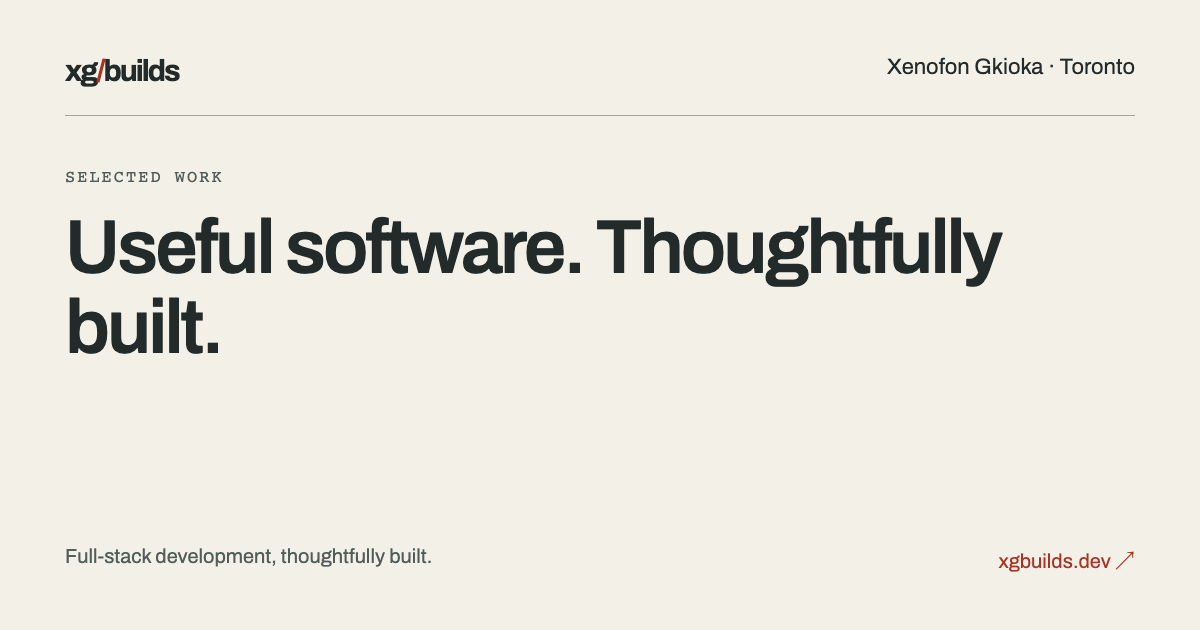
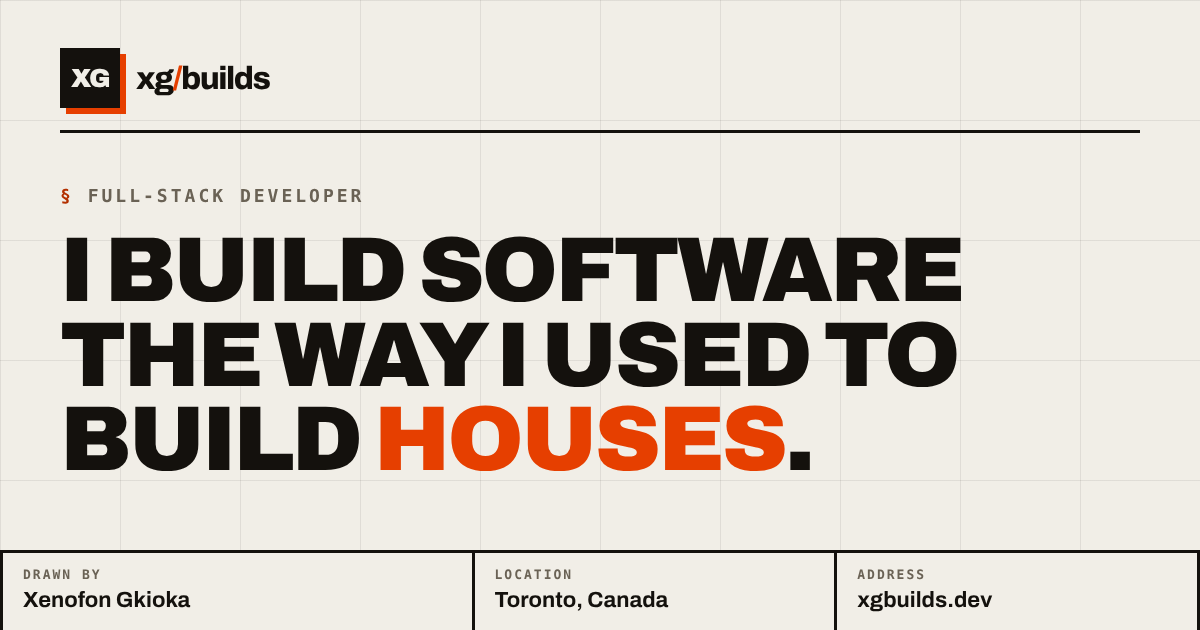
Add sitemap, robots.txt and drafting-style social cards
- app/sitemap.ts and app/robots.ts export sitemap.xml and robots.txt.
- Page metadata gains locale and descriptive image alt text.
- Social cards redrawn in the drafting style with a title block; only
  routes that exist get a card, and project names keep their spelling.

Claude-Session: https://claude.ai/code/session_012i5wdmJ9kzYcynNRhT93TS

diff --git a/scripts/social-template.html b/scripts/social-template.html
@@ -13,60 +13,109 @@
       margin: 0;
       width: 1200px;
       height: 630px;
-      background: #f3f0e8;
-      color: #232b2a;
+      background-color: #f1eee7;
+      background-image:
+        linear-gradient(rgba(20, 17, 13, 0.08) 1px, transparent 1px),
+        linear-gradient(90deg, rgba(20, 17, 13, 0.08) 1px, transparent 1px);
+      background-size: 120px 120px;
+      color: #14110d;
       font-family: Archivo, sans-serif;
-      padding: 55px 65px;
+      padding: 48px 60px 0;
       display: flex;
       flex-direction: column;
     }
     .top {
       display: flex;
       justify-content: space-between;
-      padding-bottom: 28px;
-      border-bottom: 1px solid #a2a69c;
-      font-size: 22px;
+      align-items: center;
+      padding-bottom: 22px;
+      border-bottom: 3px solid #14110d;
     }
-    .top b {
-      letter-spacing: -2px;
-      font-size: 30px;
-    }
-    .top b span {
-      color: #a93320;
-    }
-    .label {
-      font: 17px monospace;
-      text-transform: uppercase;
-      letter-spacing: 2px;
-      color: #515d59;
-      margin-top: 50px;
-    }
-    h1 {
-      font-size: 76px;
-      line-height: 1.05;
-      font-weight: 600;
-      letter-spacing: -3px;
-      max-width: 1000px;
-      margin: 22px 0;
-    }
-    .bottom {
-      margin-top: auto;
+    .brand {
       display: flex;
-      justify-content: space-between;
-      font-size: 20px;
-      color: #515d59;
+      align-items: center;
+      gap: 16px;
+      font-weight: 800;
+      font-size: 32px;
+      letter-spacing: -1.5px;
     }
     .mark {
-      color: #a93320;
+      display: grid;
+      place-items: center;
+      width: 60px;
+      height: 60px;
+      background: #14110d;
+      color: #f1eee7;
+      font-weight: 900;
+      font-size: 26px;
+      box-shadow: 6px 6px 0 #e63f00;
+    }
+    .brand .slash {
+      color: #e63f00;
+    }
+    .label {
+      font: 600 18px monospace;
+      text-transform: uppercase;
+      letter-spacing: 3px;
+      color: #6a6255;
+      margin-top: 52px;
+    }
+    .label b {
+      color: #b33000;
+    }
+    h1 {
+      font-size: 92px;
+      line-height: 0.92;
+      font-weight: 900;
+      letter-spacing: -3px;
+      text-transform: uppercase;
+      max-width: 1060px;
+      margin: 22px 0;
+    }
+    /* Project names keep their own spelling (ai-eng, KykloC). */
+    h1 .name {
+      text-transform: none;
+      font-size: 120px;
+    }
+    h1 em {
+      font-style: normal;
+      color: #e63f00;
+    }
+    .block {
+      margin-top: auto;
+      display: grid;
+      grid-template-columns: 1.3fr 1fr 1fr;
+      border-top: 3px solid #14110d;
+      border-left: 3px solid #14110d;
+      margin-inline: -60px;
+      background: #f1eee7;
+    }
+    .block div {
+      border-right: 3px solid #14110d;
+      padding: 14px 20px 18px;
+      font-size: 22px;
+      font-weight: 700;
+    }
+    .block small {
+      display: block;
+      font: 600 13px monospace;
+      letter-spacing: 2px;
+      text-transform: uppercase;
+      color: #6a6255;
+      margin-bottom: 6px;
     }
   </style>
   <div class="top">
-    <b>xg<span>/</span>builds</b><span>Xenofon Gkioka · Toronto</span>
+    <div class="brand">
+      <span class="mark">XG</span
+      ><span>xg<span class="slash">/</span>builds</span>
+    </div>
   </div>
-  <div class="label">__LABEL__</div>
+  <div class="label"><b>§</b> __LABEL__</div>
   <h1>__TITLE__</h1>
-  <div class="bottom">
-    <span>Full-stack development, thoughtfully built.</span
-    ><span class="mark">xgbuilds.dev ↗</span>
+  <div class="block">
+    <div><small>Drawn by</small>Xenofon Gkioka</div>
+    <div><small>Location</small>Toronto, Canada</div>
+    <div><small>Address</small>xgbuilds.dev</div>
   </div>
 </html>

diff --git a/lib/metadata.ts b/lib/metadata.ts
@@ -1,11 +1,17 @@
 import type { Metadata } from 'next'
 import { site } from './site'
+
+/** Per-route metadata: canonical URL, Open Graph and Twitter cards. The
+    social image is public/social/<last path segment>.png, generated by
+    `npm run social`. */
 export function pageMetadata(
   title: string,
   description: string,
   path: string,
 ): Metadata {
-  const image = `/social/${path === '/' ? 'home' : path.split('/').filter(Boolean).at(-1)}.png`
+  const slug = path === '/' ? 'home' : path.split('/').filter(Boolean).at(-1)
+  const image = `/social/${slug}.png`
+  const alt = `${title} · ${site.name}, ${site.role.toLowerCase()} in Toronto`
   return {
     title,
     description,
@@ -16,20 +22,14 @@ export function pageMetadata(
       url: path,
       type: 'website',
       siteName: site.brand,
-      images: [
-        {
-          url: image,
-          width: 1200,
-          height: 630,
-          alt: 'Xenofon Gkioka — full-stack development',
-        },
-      ],
+      locale: 'en_CA',
+      images: [{ url: image, width: 1200, height: 630, alt }],
     },
     twitter: {
       card: 'summary_large_image',
       title,
       description,
-      images: [image],
+      images: [{ url: image, alt }],
     },
   }
 }

diff --git a/app/sitemap.ts b/app/sitemap.ts
@@ -1,0 +1,20 @@
+import type { MetadataRoute } from 'next'
+import { caseStudies, projectPath } from '@/lib/portfolio'
+import { site } from '@/lib/site'
+
+export const dynamic = 'force-static'
+
+export default function sitemap(): MetadataRoute.Sitemap {
+  const routes = [
+    '',
+    '/projects',
+    '/websites',
+    '/about',
+    ...caseStudies.map(projectPath),
+  ]
+  return routes.map((path) => ({
+    url: `${site.url}${path}`,
+    changeFrequency: 'monthly',
+    priority: path === '' ? 1 : path.startsWith('/projects/') ? 0.7 : 0.8,
+  }))
+}

diff --git a/app/robots.ts b/app/robots.ts
@@ -1,0 +1,12 @@
+import type { MetadataRoute } from 'next'
+import { site } from '@/lib/site'
+
+export const dynamic = 'force-static'
+
+export default function robots(): MetadataRoute.Robots {
+  return {
+    rules: { userAgent: '*', allow: '/' },
+    sitemap: `${site.url}/sitemap.xml`,
+    host: site.url,
+  }
+}
